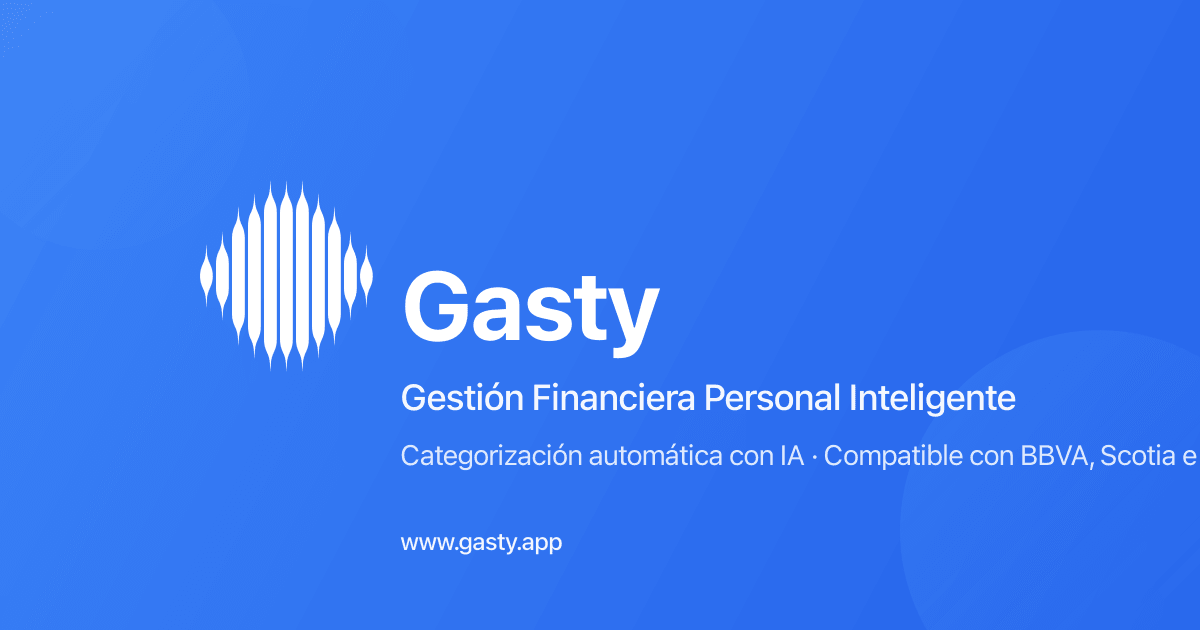
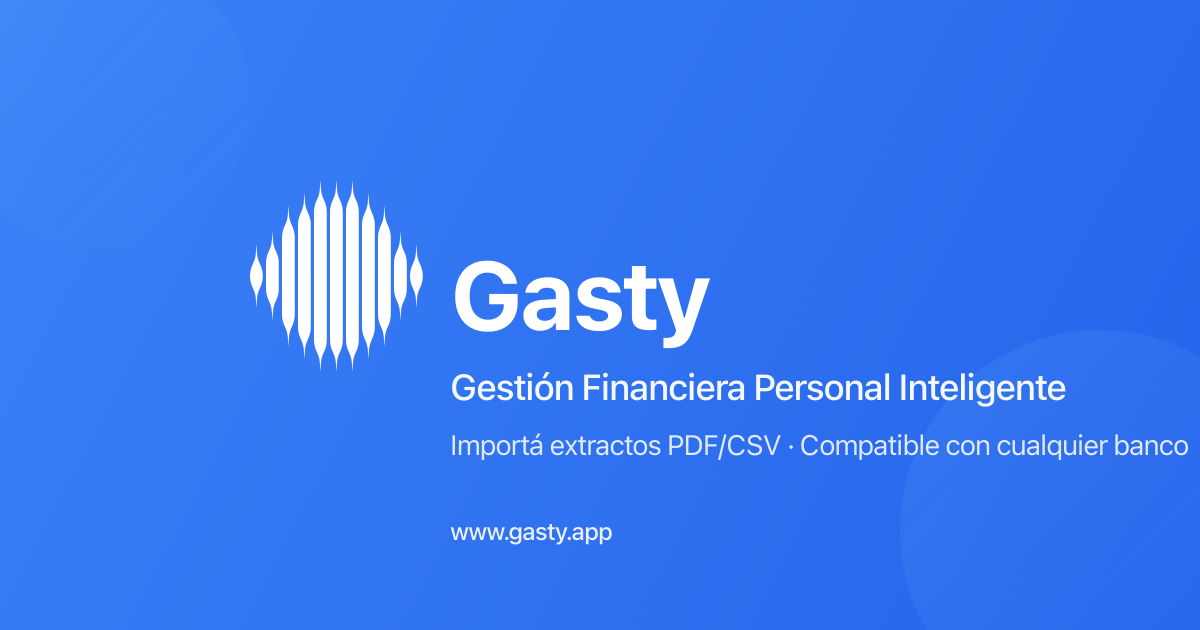
feat: Actualizar OG image para destacar soporte PDF/CSV
Cambios en la imagen OG:
- Eliminada mención de "categorización con IA"
- Agregado soporte explícito de "PDF/CSV"
- Mejorado centrado de elementos para mejor visualización
- Logo reposicionado de x=200 a x=250
- Textos reposicionados de x=400 a x=450

Metadatos actualizados:
- Description principal: menciona "PDF o CSV de cualquier banco"
- OpenGraph: "Importá extractos PDF/CSV de cualquier banco"
- Twitter Card: actualizado con mismo mensaje

Nuevo copy: "Importá extractos PDF/CSV · Compatible con cualquier banco"

🤖 Generated with [Claude Code](https://claude.com/claude-code)

diff --git a/app/layout.tsx b/app/layout.tsx
@@ -21,7 +21,7 @@ export const metadata: Metadata = {
     default: "Gasty - Gestión Financiera Personal Inteligente | Control de Gastos",
     template: "%s | Gasty"
   },
-  description: "App para controlar gastos y finanzas personales en Uruguay. Importá extractos bancarios de BBVA, Scotia, Itaú automáticamente. Categorización inteligente, gráficas en tiempo real y reportes personalizados. Gratis y sin conectar tu banco.",
+  description: "App para controlar gastos y finanzas personales en Uruguay. Importá extractos bancarios en PDF o CSV de cualquier banco. Gráficas en tiempo real y reportes personalizados. Gratis y sin conectar tu banco.",
   keywords: [
     // Primary keywords (alto volumen)
     "finanzas personales",
@@ -70,7 +70,7 @@ export const metadata: Metadata = {
     locale: "es_UY",
     url: "https://www.gasty.app",
     title: "Gasty - App Control de Gastos y Finanzas Personales Uruguay",
-    description: "La mejor app para controlar gastos en Uruguay. Importá extractos de BBVA, Scotia, Itaú. Categorización automática, gráficas y reportes. Gratis.",
+    description: "La mejor app para controlar gastos en Uruguay. Importá extractos PDF/CSV de cualquier banco. Gráficas en tiempo real y reportes. Gratis.",
     siteName: "Gasty",
     images: [
       {
@@ -84,7 +84,7 @@ export const metadata: Metadata = {
   twitter: {
     card: "summary_large_image",
     title: "Gasty - App Control de Gastos y Finanzas Personales Uruguay",
-    description: "La mejor app para controlar gastos en Uruguay. Importá extractos de BBVA, Scotia, Itaú. Categorización automática. Gratis.",
+    description: "La mejor app para controlar gastos en Uruguay. Importá extractos PDF/CSV de cualquier banco. Gráficas y reportes. Gratis.",
     images: ["/og-image.png"],
   },
   robots: {
